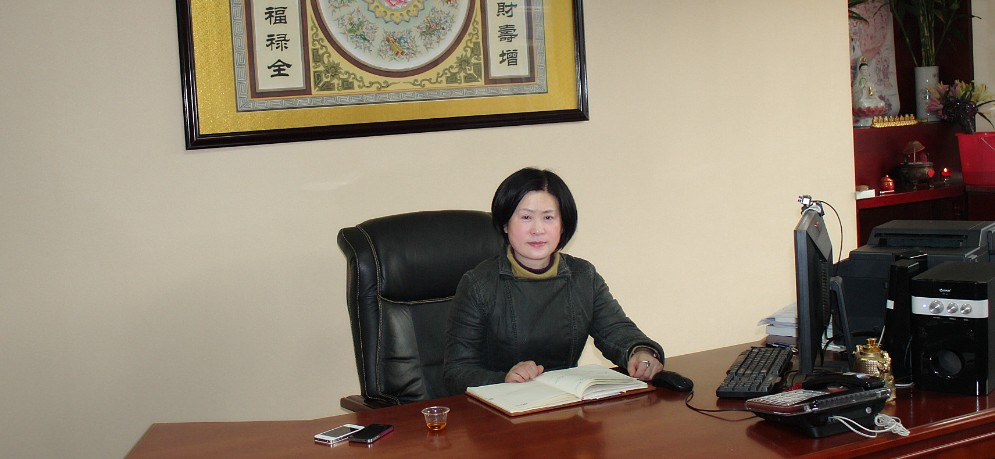
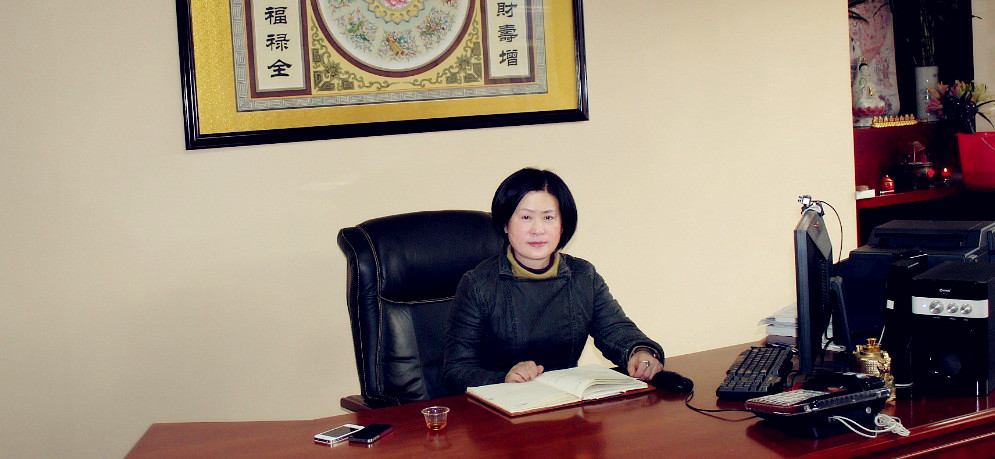
页面调整以及图片修改

diff --git a/public/stylesheets/banner.css b/public/stylesheets/banner.css
@@ -1,6 +1,7 @@
 #transitionEffect {
     width: 980px;
-    height: 428px;
+    /*height: 428px;*/
+    height: 308px;
     overflow: hidden;
 }
 .slide {
@@ -45,8 +46,9 @@
 }
 div.fadenav {
     position: absolute;
-    top: 380px;
-    right: 884px;
+    /*top: 380px;*/
+    top: 260px;
+    right: 864px;
 }
 div.fadenav a {
     display: block;
@@ -83,8 +85,8 @@ div.fadenav a.current {
 .banner_text {
     float:left;
     width:260px;
-    margin-left: 34px;
-    margin-top:316px;
+    margin-left: 24px;
+    margin-top:226px;
     font-size:20px;
     text-align:left;
 }

diff --git a/public/stylesheets/master.css b/public/stylesheets/master.css
@@ -27,7 +27,8 @@ div#wrapper {
     margin-top: 25px;
 }.main_banner {
      float: left;
-     height: 428px;
+     /*height: 428px;*/
+     height: 308px;
      width: 980px;
      margin-top: 28px;
  }
